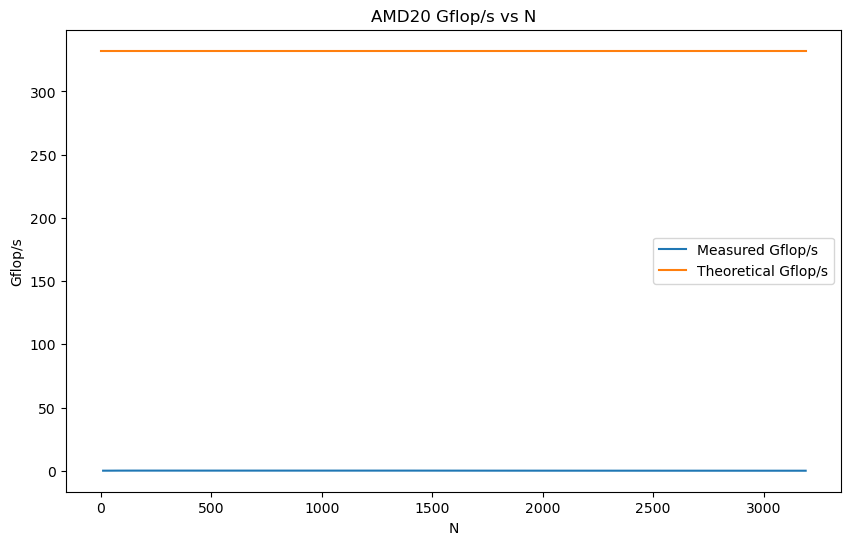
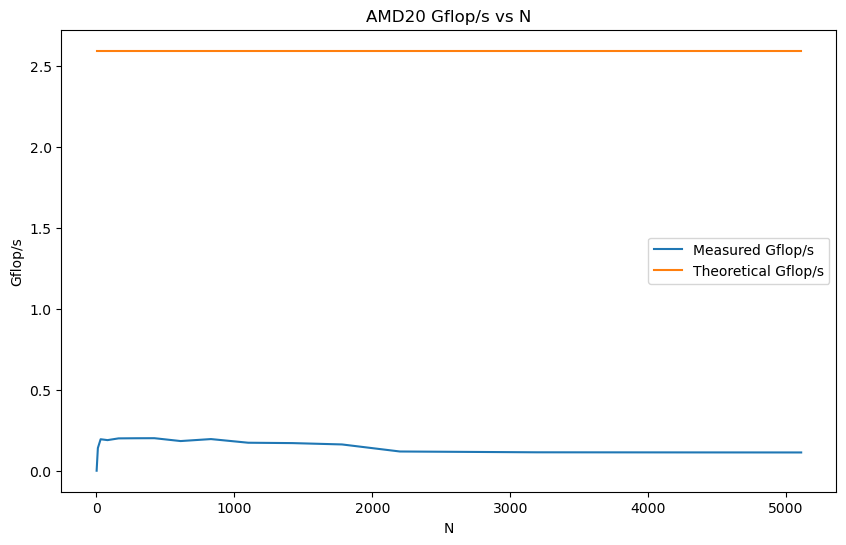
per core

diff --git a/Project Report.md b/Project Report.md
@@ -39,7 +39,8 @@ Putting this line of code into a three nested loop with given matrix size N, and
     Clock Speed = 2.40GHz    
     No. of Floating Point Units = 1    
     No. of Cores = 40    
-    Theoretical Peak = 96 Gflop/s    
+    Theoretical Peak (total) = 96 Gflop/s    
+    Theoretical Peak (per core) = 2.4 Gflop/s      
     The measured performance is significantly lower than the theoretical peak performance.     
         
     AMD EPYC 7H12 64-Core Processor (AMD20)    
@@ -47,10 +48,12 @@ Putting this line of code into a three nested loop with given matrix size N, and
     No. of Floating Point Units = 1    
     No. of Cores = 128    
     Theoretical Peak = 332.161152 Gflop/s    
+    Theoretical Peak (per core) = 2.60 Gflop/s      
     The measured performance is significantly lower than the theoretical peak performance.   
 
 5.  
 <img src="part1/result_intel18.png" width="50%" height="auto">
+
 <img src="part1/result_amd20.png" width="50%" height="auto">
 
 6.   
@@ -58,7 +61,9 @@ Putting this line of code into a three nested loop with given matrix size N, and
     Architecture: x86_64      
     Clock Speed: 2.40GHz    
     No. of Cores: 40    
-    Theoretical Peak: 96 Gflop/s    
+    Theoretical Peak: 96 Gflop/s  
+    Theoretical Peak (per core) = 2.4 Gflop/s    
+    Measured Speed (per core): 0.0946 Gflop/s      
     L1d cache: 32K     
     L1i cache: 32K    
     L2 cache: 1024K     
@@ -69,14 +74,18 @@ Putting this line of code into a three nested loop with given matrix size N, and
     Clock Speed: 2.595009GHz         
     No. of Cores: 128    
     Theoretical Peak: 332.161152 Gflop/s    
+    Theoretical Peak (per core) = 2.60 Gflop/s    
+    Measured Speed (per core): 0.156 Gflop/s  
     L1d cache: 32K     
     L1i cache: 32K     
     L2 cache: 512K     
     L3 cache: 16384K     
-          
-    The Intel18 has 40 cores while AMD20 has 128 cores. A higher core means better parallel processing capabilities. AMD20 also has a higher clock speed which means faster processing speed for individual tasks. AMD20, hence has a higher theoretical peak performance than Intel18.
+    
+    The Intel18 has 40 cores while AMD20 has 128 cores. A higher core means better parallel processing capabilities. AMD20 also has a higher clock speed which means faster processing speed for individual tasks. AMD20, hence has a higher theoretical peak performance than Intel18.      
+            
+    The measured speed is measured using matrix multiplication running on a single core on the processor.
 
-    For N = 100, oth architecture has significantly lower measured performance than theoretical peak performance. This is mainly due to the lack of parallelization in the matrix multiplication, and possibly power constraints set by HPCC. AMD20 also has slighly higer measured performance as compared to Intel18.
+    For N = 100, both architecture has significantly lower measured performance than theoretical peak performance. This is mainly due to the lack of parallelization in the matrix multiplication, and possibly power constraints set by HPCC. AMD20 also has slighly higer measured performance as compared to Intel18.
 
     The measured performance for multiple N's compare to peak is also significantly lower, and also running out of memory for larger N's. Both architecutres has an "almost" straight line graph for multiple N's.
 
